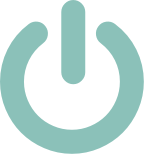
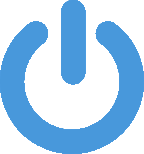
webui2: Update colors in css and images

diff --git a/src/webui2/static/css/dowse.css b/src/webui2/static/css/dowse.css
@@ -19,8 +19,8 @@ body
     color: #000000;
     background-color: #ffffff;
     /* Oval: */
-    background-image: radial-gradient(50% 100%, #DBE2D0 0%, #ACB0A7 100%);
-    border: 1px solid #979797;
+    background-image: radial-gradient(50% 100%, #ffffff 0%, #dbe5f5 100%);
+    /* border: 1px solid #0000ff; */
 }
 
 footer
@@ -90,12 +90,19 @@ footer
 
 }.btn-dowse
 {
-    background: #767B7C;
+    background: #bcc6d7;
     border-radius: 5px;
     font-family: DINCondensed-Bold;
     font-size: 16px;
     color: #53606B;
 }
+
+
+.jumbotron
+{
+    background-color: #f8f8f8;
+}
+
 
 .btn-dowse_sml
 {
@@ -115,14 +122,15 @@ footer
 
 .dowseIsAdmin
 {
-    background-color: #059BA8;
-    border: 1px solid #979797;
+    background-color: #3a92de;
+    color: #bcc6d7;
+    /* border: 1px solid #bcc6d7; */
 }
 
 
 .dowseIsNotAdmin
 {
-    background: #767B7C;
+    background: #bcc6d7;
     border: 1px solid #979797;
 }
 
@@ -155,19 +163,19 @@ footer
 
 tr.self
 {
-    background-color: #f6f6dd;
+    background-color: #dbe5f5;
 }
 
 
 tr.ask_permission
 {
-    background-color:#e0b3b3;
+    background-color:#f4f4ce;
 }
 
 
 tr
 {
-background-color: #DDDDC5;
+    background-color: #f8f8f8;
 }
 
 
